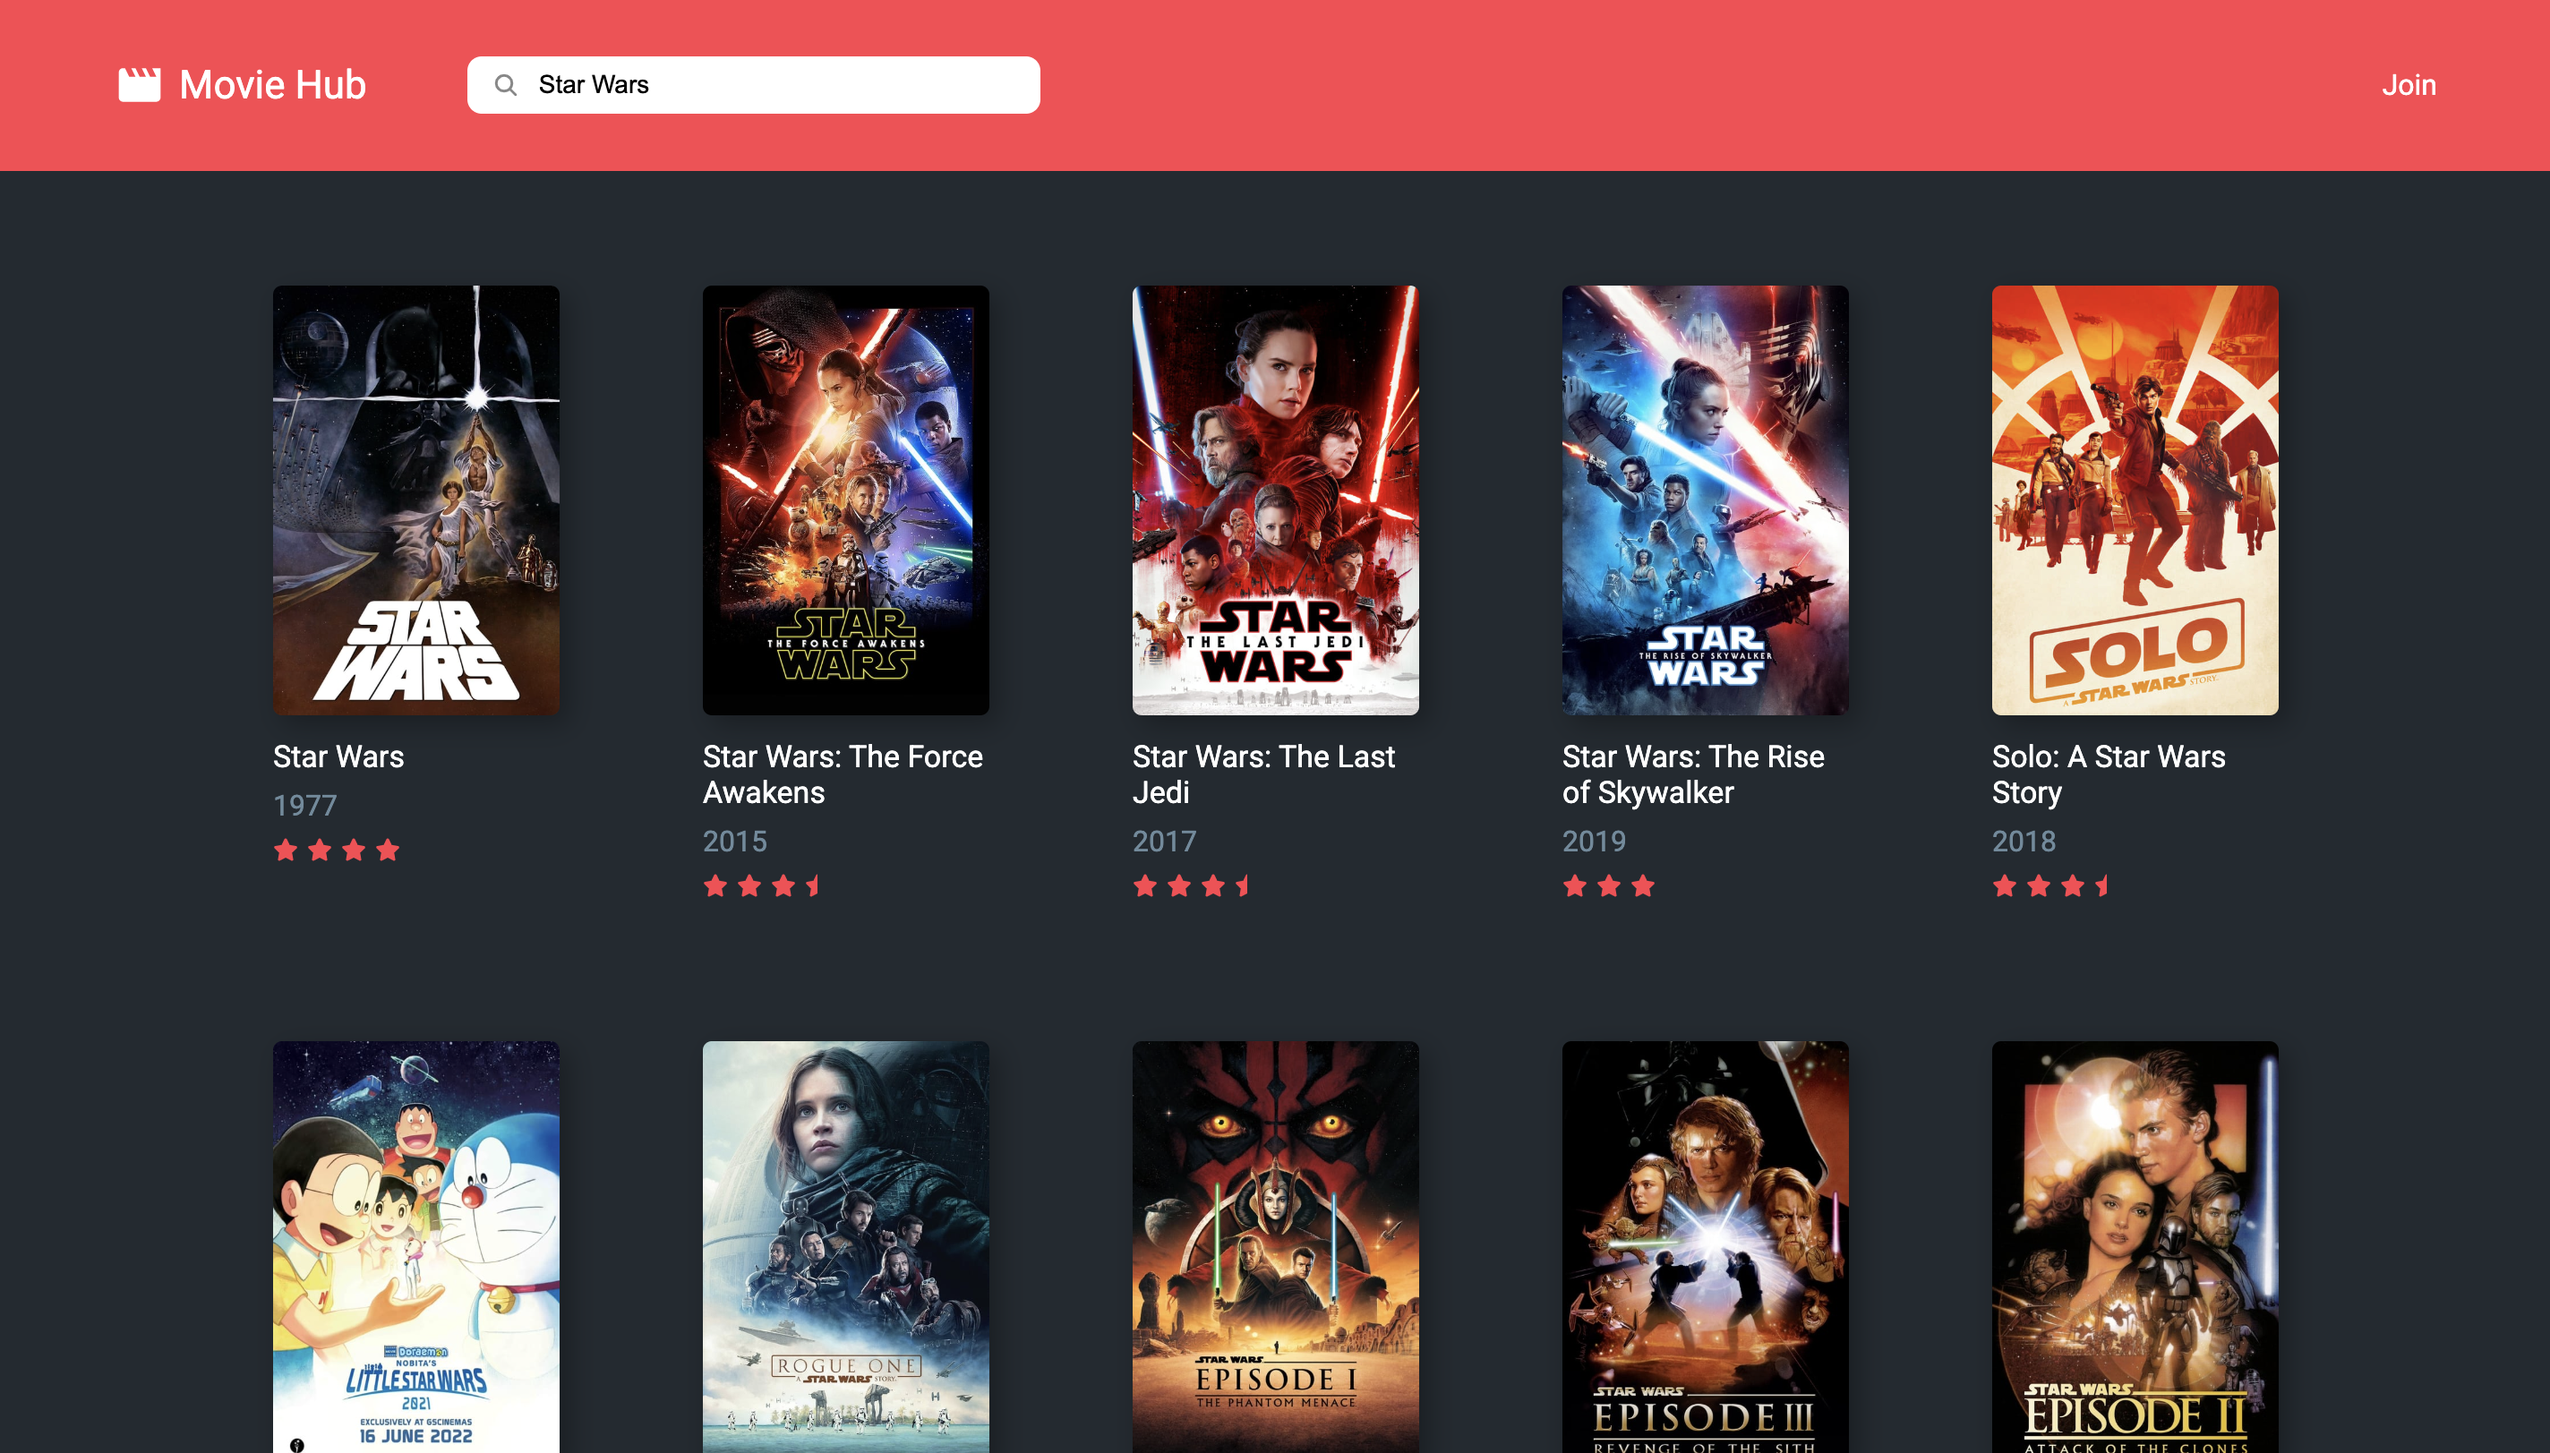
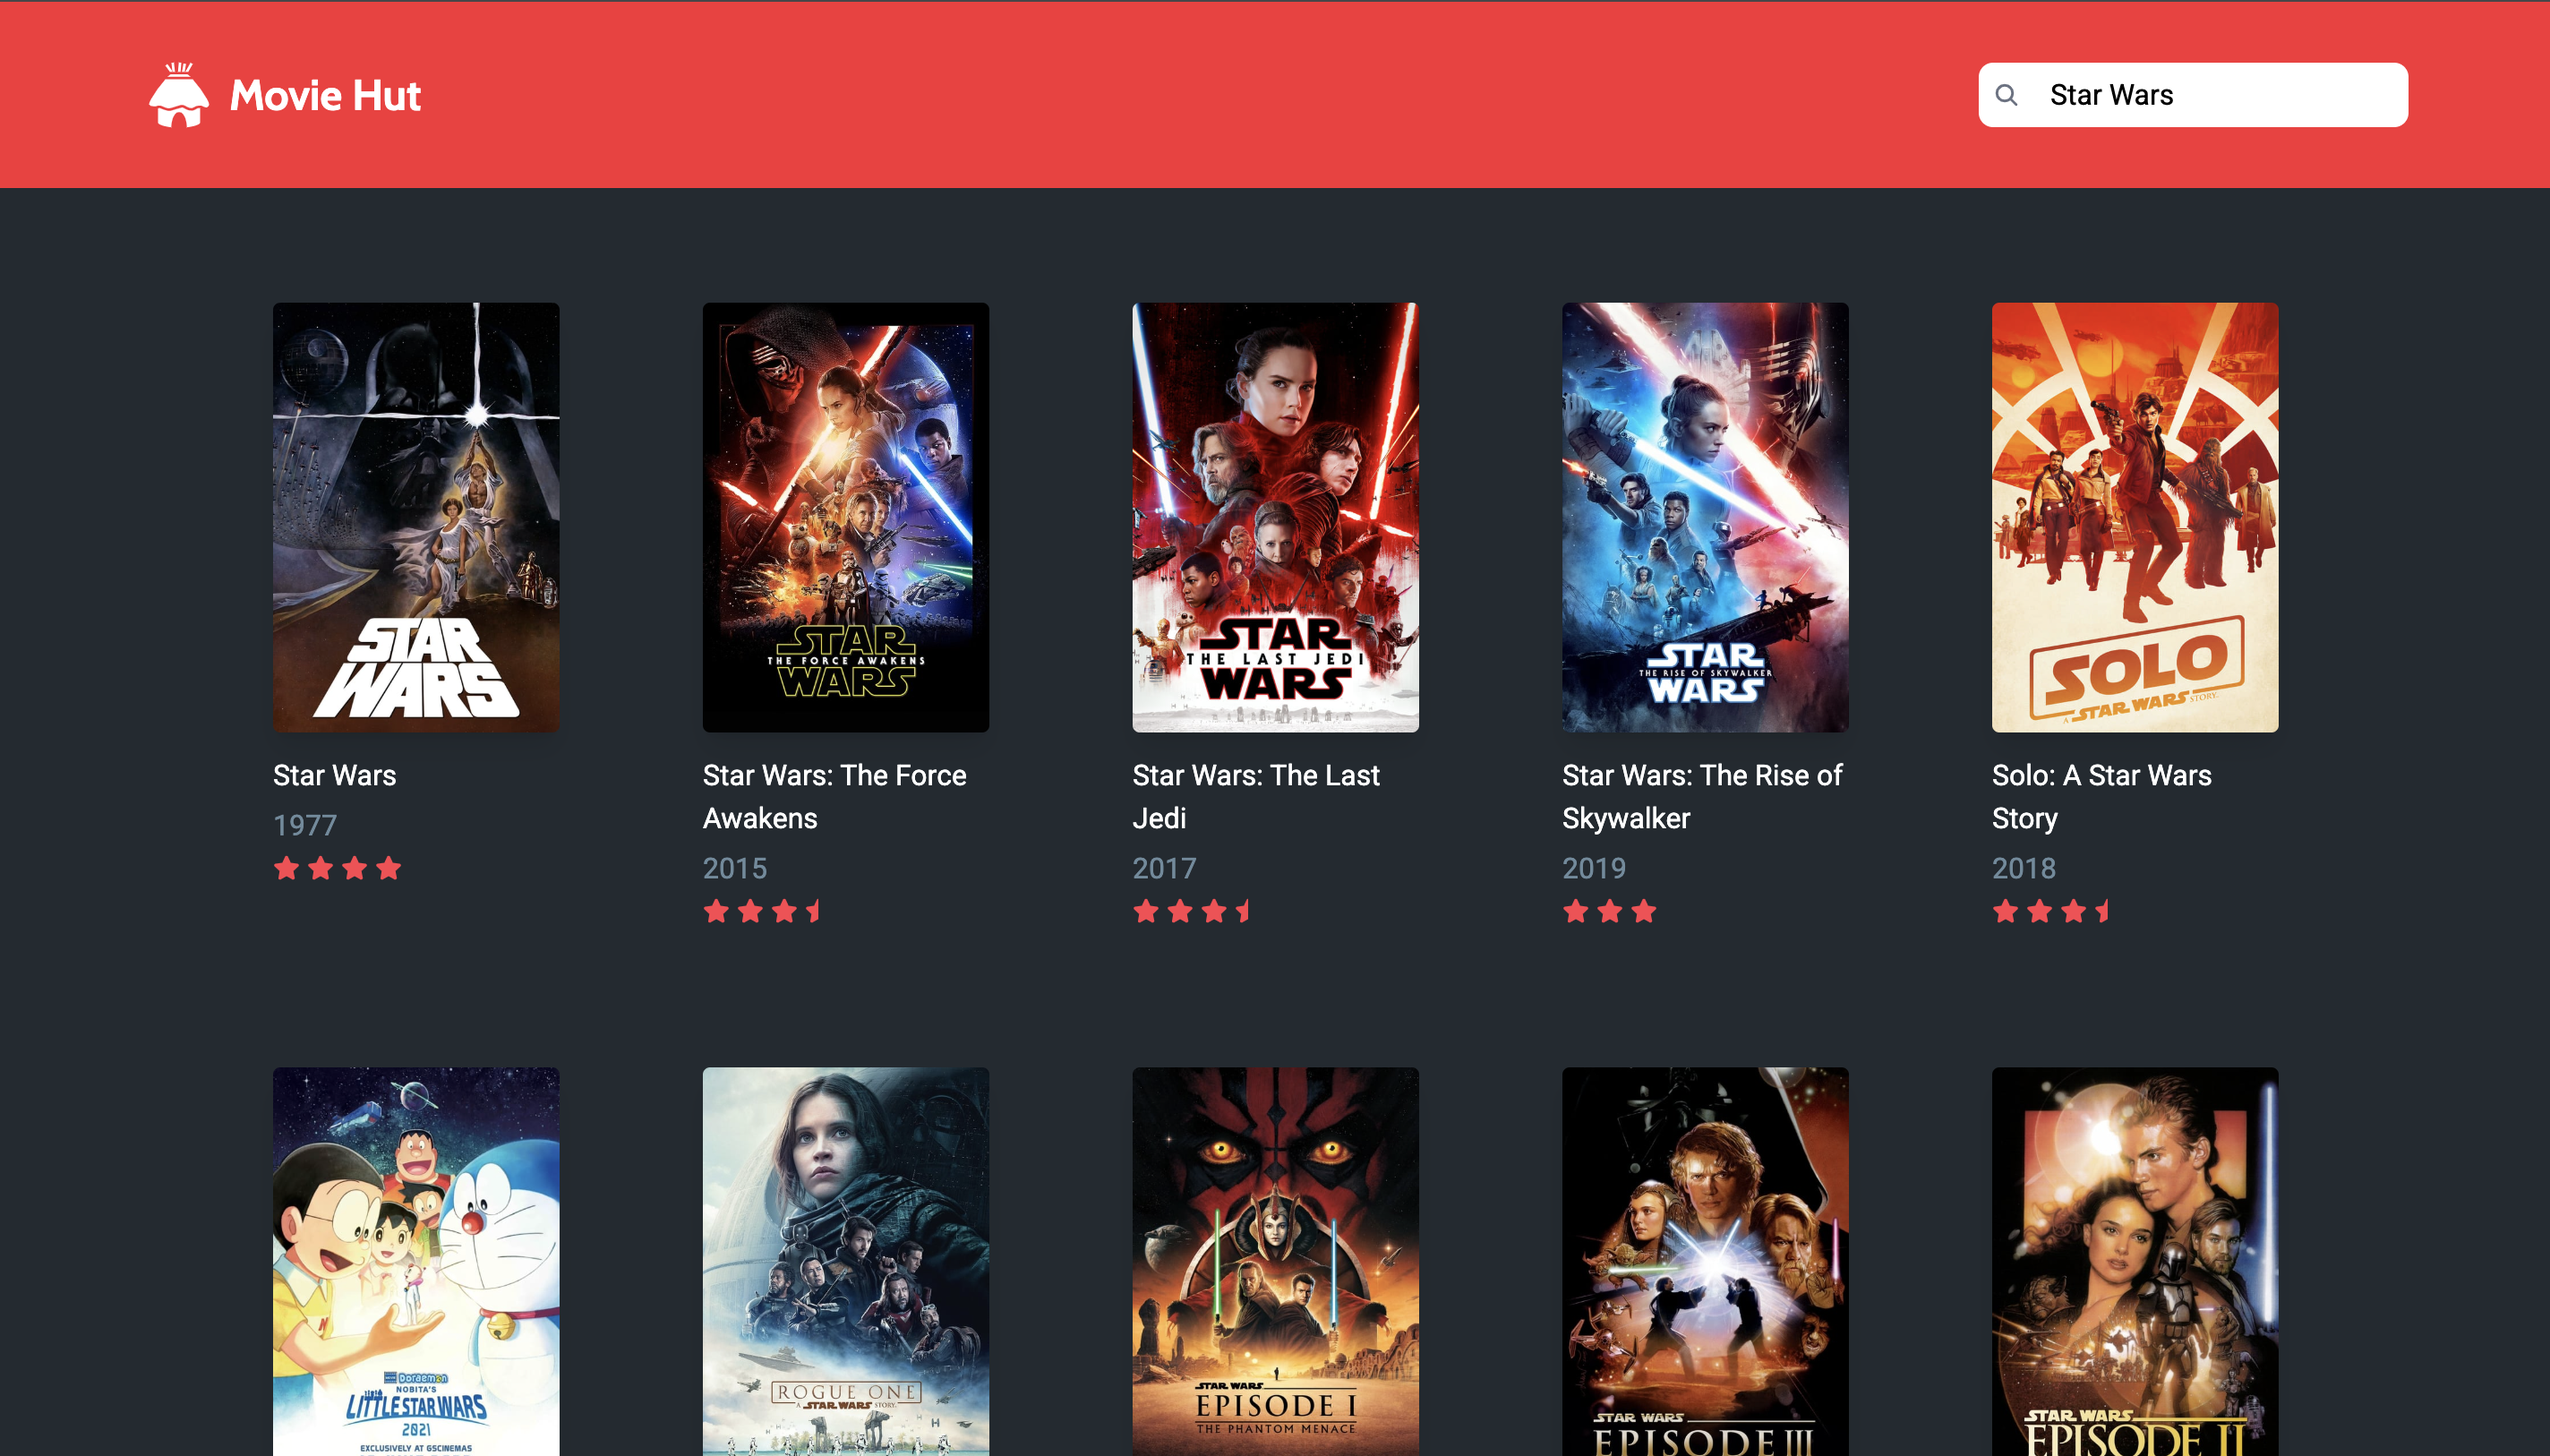
Update movie hut project + styling

diff --git a/src/components/Projects.jsx b/src/components/Projects.jsx
@@ -1,5 +1,6 @@
 import '../styles/global.css';
 import { FaLink } from 'react-icons/fa6';
+import { FaGithub } from 'react-icons/fa';
 import fuelAIImg from '../assets/projects/fuel-ai.png';
 import movieHubImg from '../assets/projects/movie-hub.png';
 import expendoImg from '../assets/projects/expendo.png';
@@ -16,7 +17,7 @@ function Projects() {
     {
       image: fuelAIImg,
       name: 'Fuel AI',
-      link: 'https://gofuel.ai',
+      projectLink: 'https://gofuel.ai',
       about:
         'Fuel AI is a data marketplace where companies request custom datasets, and users earn by collecting data. As a Founding Full Stack Engineer, I helped build and scale the platform, growing the user base from 0 to 10,000+ across 100+ countries.',
       tech: [
@@ -29,8 +30,9 @@ function Projects() {
     },
     {
       image: movieHubImg,
-      name: 'Movie Hub',
-      link: 'https://github.com/Morganfp/movie-hub',
+      name: 'Movie Hut',
+      githubLink: 'https://github.com/Morganfp/movie-hut',
+      projectLink: 'https://moviehut.morganfpurcell.com/',
       about:
         'A movie discovery application that allows users to search for movies by title and view key details such as release year, rating, and cover images. Built with React, this app offers a clean, responsive UI and seamless integration with the Movie Database (TMDB) API.',
       tech: [
@@ -41,7 +43,7 @@ function Projects() {
     {
       image: expendoImg,
       name: 'Expendo',
-      link: 'https://github.com/Morganfp/expendo-finance-tracker',
+      githubLink: 'https://github.com/Morganfp/expendo-finance-tracker',
       about:
         'A finance tracking application that helps users manage their finances by recording income and expenses. Built with React, this app features light/dark mode, persistent data storage, and intuitive transaction management.',
       tech: [
@@ -52,7 +54,7 @@ function Projects() {
     {
       image: coachesCornerImg,
       name: 'Coaches Corner',
-      link: null,
+      githubLink: null,
       about:
         'I worked as a backend engineer with a team of 5 to build a scalable web application using Django, Python, and MySQL in an Agile environment, efficiently tracking and visualizing over 1,100 athlete performance metrics at Lindenwood University.',
       tech: [
@@ -64,7 +66,7 @@ function Projects() {
     {
       image: moWeatherImg,
       name: 'MoWeather',
-      link: 'https://github.com/Morganfp/moweather-weather-app',
+      githubLink: 'https://github.com/Morganfp/moweather-weather-app',
       about:
         'A weather app that allows users to search for locations and view the current weather, including temperature, city, and country. Built with React, this app fetches weather data from the Open-Meteo API and location data from OpenStreetMap.',
       tech: [
@@ -75,7 +77,7 @@ function Projects() {
     {
       image: ekoChatbotImg,
       name: 'Eko',
-      link: 'https://github.com/Morganfp/eko-chatbot',
+      githubLink: 'https://github.com/Morganfp/eko-chatbot',
       about:
         'Eko Chatbot is a customizable customer support chatbot widget built with React, TypeScript, Python, and FastAPI. Designed to help businesses automate responses to common inquiries, Eko enables efficient customer interactions without the need for AI models.',
       tech: [
@@ -88,7 +90,7 @@ function Projects() {
     {
       image: novamindImg,
       name: 'Novamind',
-      link: 'https://github.com/Morganfp/novamind-ai-mobile-chatbot',
+      githubLink: 'https://github.com/Morganfp/novamind-ai-mobile-chatbot',
       about:
         'A mobile application that utilizes the OpenAI API to provide users with a conversational AI experience. The app features a user-friendly interface with an intuitive design that allows users to interact with the AI in a natural and seamless way.',
       tech: [
@@ -98,7 +100,7 @@ function Projects() {
     {
       image: frankieAIImg,
       name: 'Frankie AI',
-      link: 'https://github.com/Morganfp/frankie-ai',
+      githubLink: 'https://github.com/Morganfp/frankie-ai',
       about:
         'A locally hosted AI chatbot built to allow users to utilize multiple models, including Llama 3.1, Phi 3, Mistral, Gemma 2, and more. It runs entirely without an internet connection, featuring an intuitive interface and supporting diverse use cases.',
       tech: [
@@ -108,7 +110,7 @@ function Projects() {
     {
       image: cloudyCastImg,
       name: 'Cloudy Cast',
-      link: 'https://github.com/Morganfp/cloudy-cast-media-converter',
+      githubLink: 'https://github.com/Morganfp/cloudy-cast-media-converter',
       about:
         'A desktop application that utilizes the OpenCV and MoviePY Python libraries to convert between image and video formats such as jpg to png, mp4 to mov, and mkv to mp4.',
       tech: [
@@ -119,7 +121,7 @@ function Projects() {
     {
       image: mistyAIImg,
       name: 'Misty',
-      link: 'https://github.com/Morganfp/Misty-AI-Random-Fact',
+      githubLink: 'https://github.com/Morganfp/Misty-AI-Random-Fact',
       about:
         'A program that automates a web search using the Puppeteer Node.js library to scrape facts about the 50 US states and has the Misty robot speak a random fact using the Google text-to-speech API.',
       tech: [
@@ -147,12 +149,20 @@ function Projects() {
               />
               <div className="flex items-center gap-3 mt-4 mb-1 md:mt-5 md:mb-2">
                 <h2 className="section-subtitle">{proj.name}</h2>
-                {proj.link ? (
+                {proj.projectLink ? (
                   <button
-                    onClick={() => window.open(proj.link)}
+                    onClick={() => window.open(proj.projectLink)}
                     className="bg-[#00FFBB] py-1 px-2 rounded-2xl transform transition-all duration-300 hover:scale-110 cursor-pointer"
                   >
-                    <FaLink color="#212121" size={14} />
+                    <FaLink color="#212121" size={16} />
+                  </button>
+                ) : null}
+                {proj.githubLink ? (
+                  <button
+                    onClick={() => window.open(proj.githubLink)}
+                    className="bg-[#00FFBB] py-1 px-2 rounded-2xl transform transition-all duration-300 hover:scale-110 cursor-pointer"
+                  >
+                    <FaGithub color="#212121" size={16} />
                   </button>
                 ) : null}
               </div>
